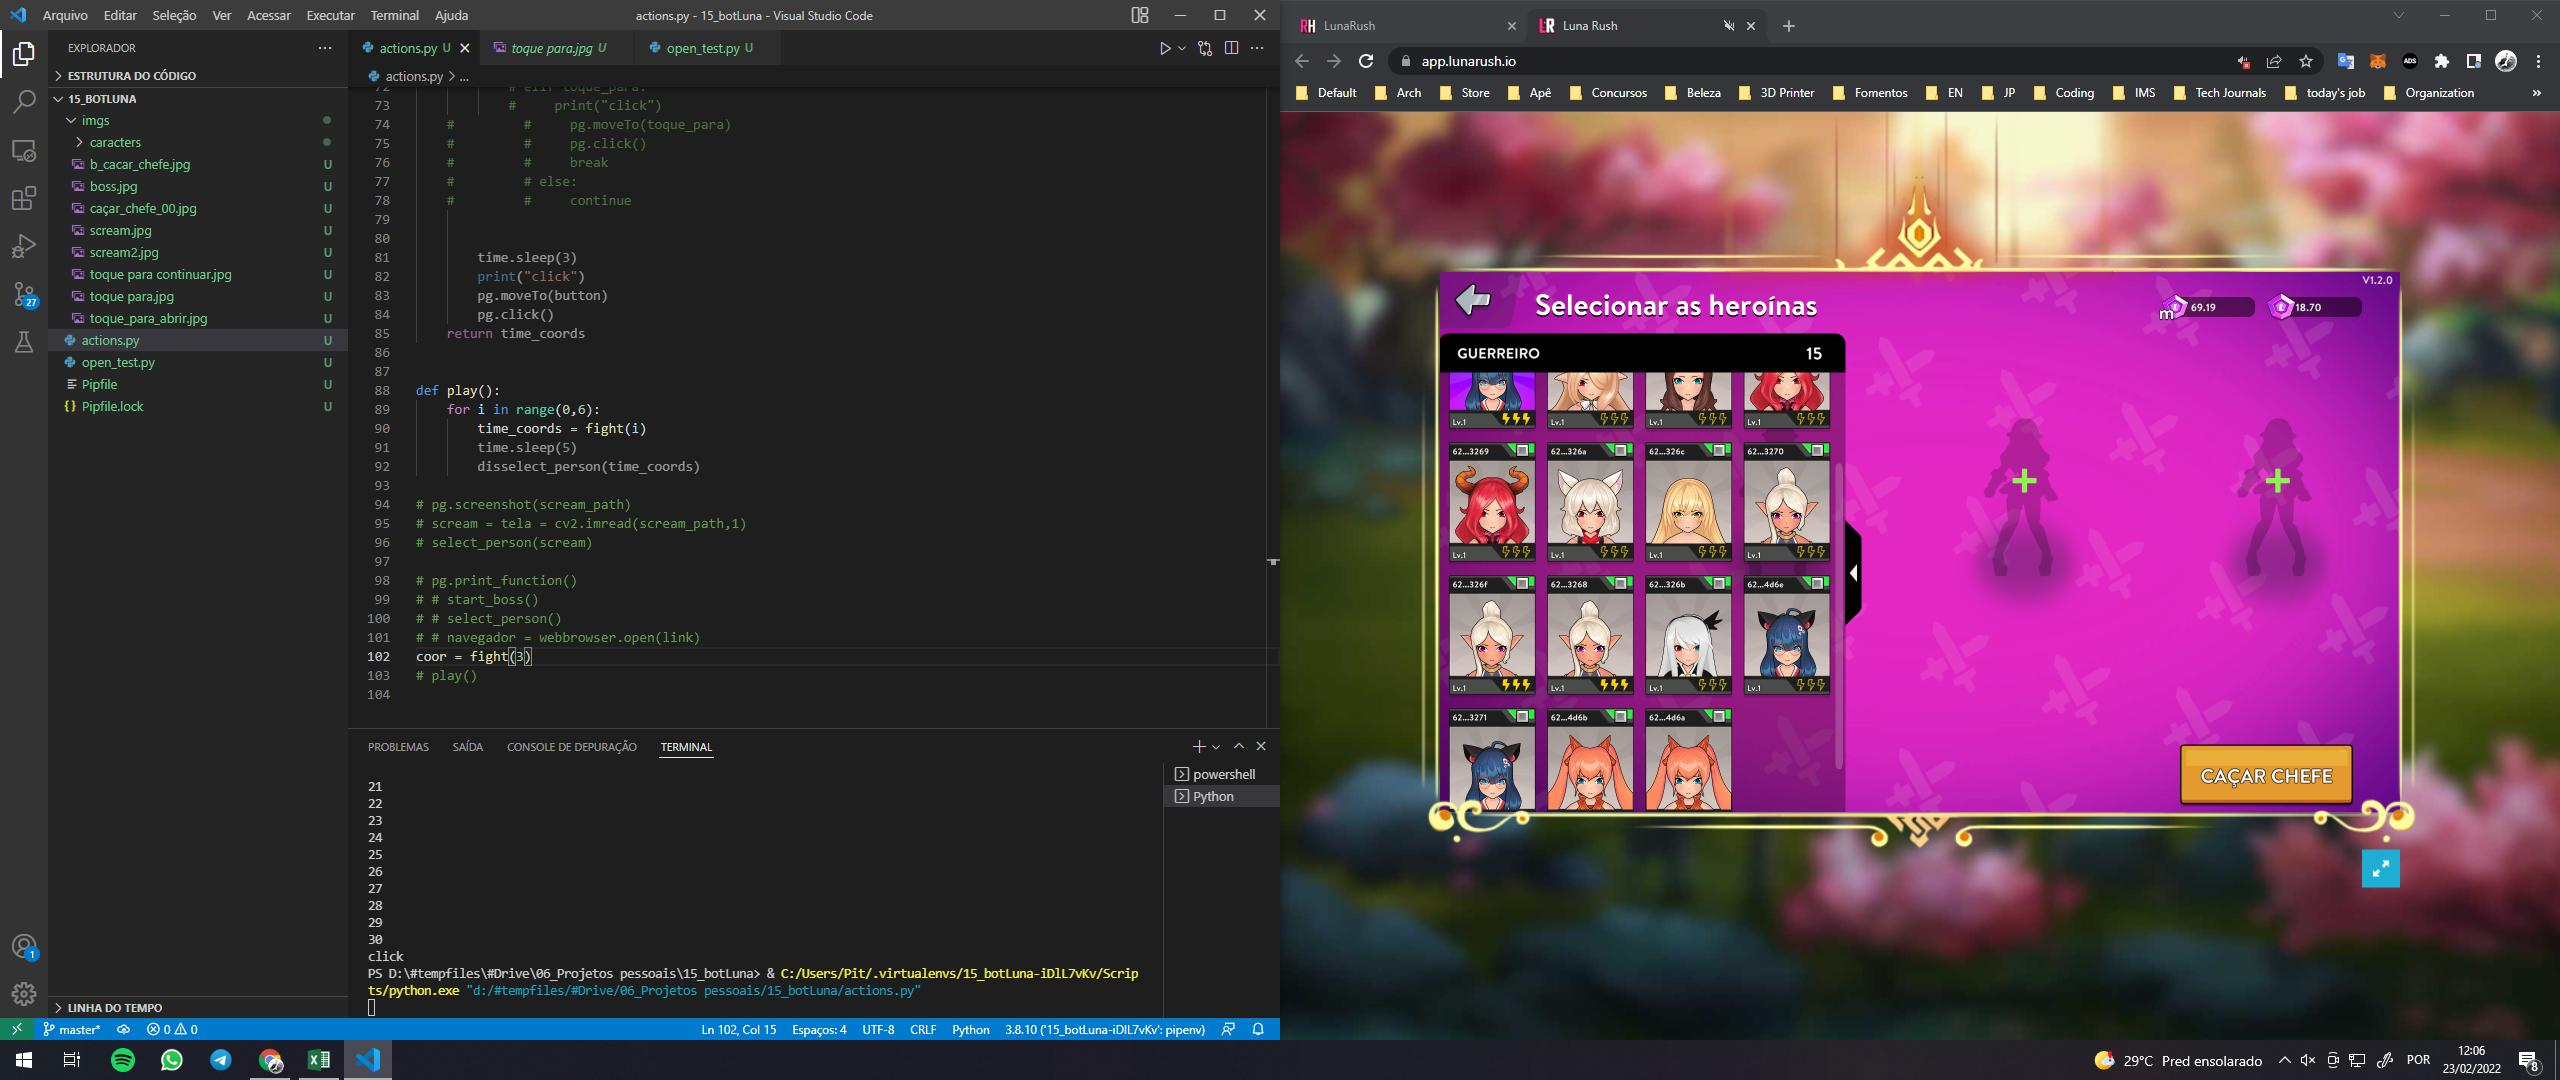
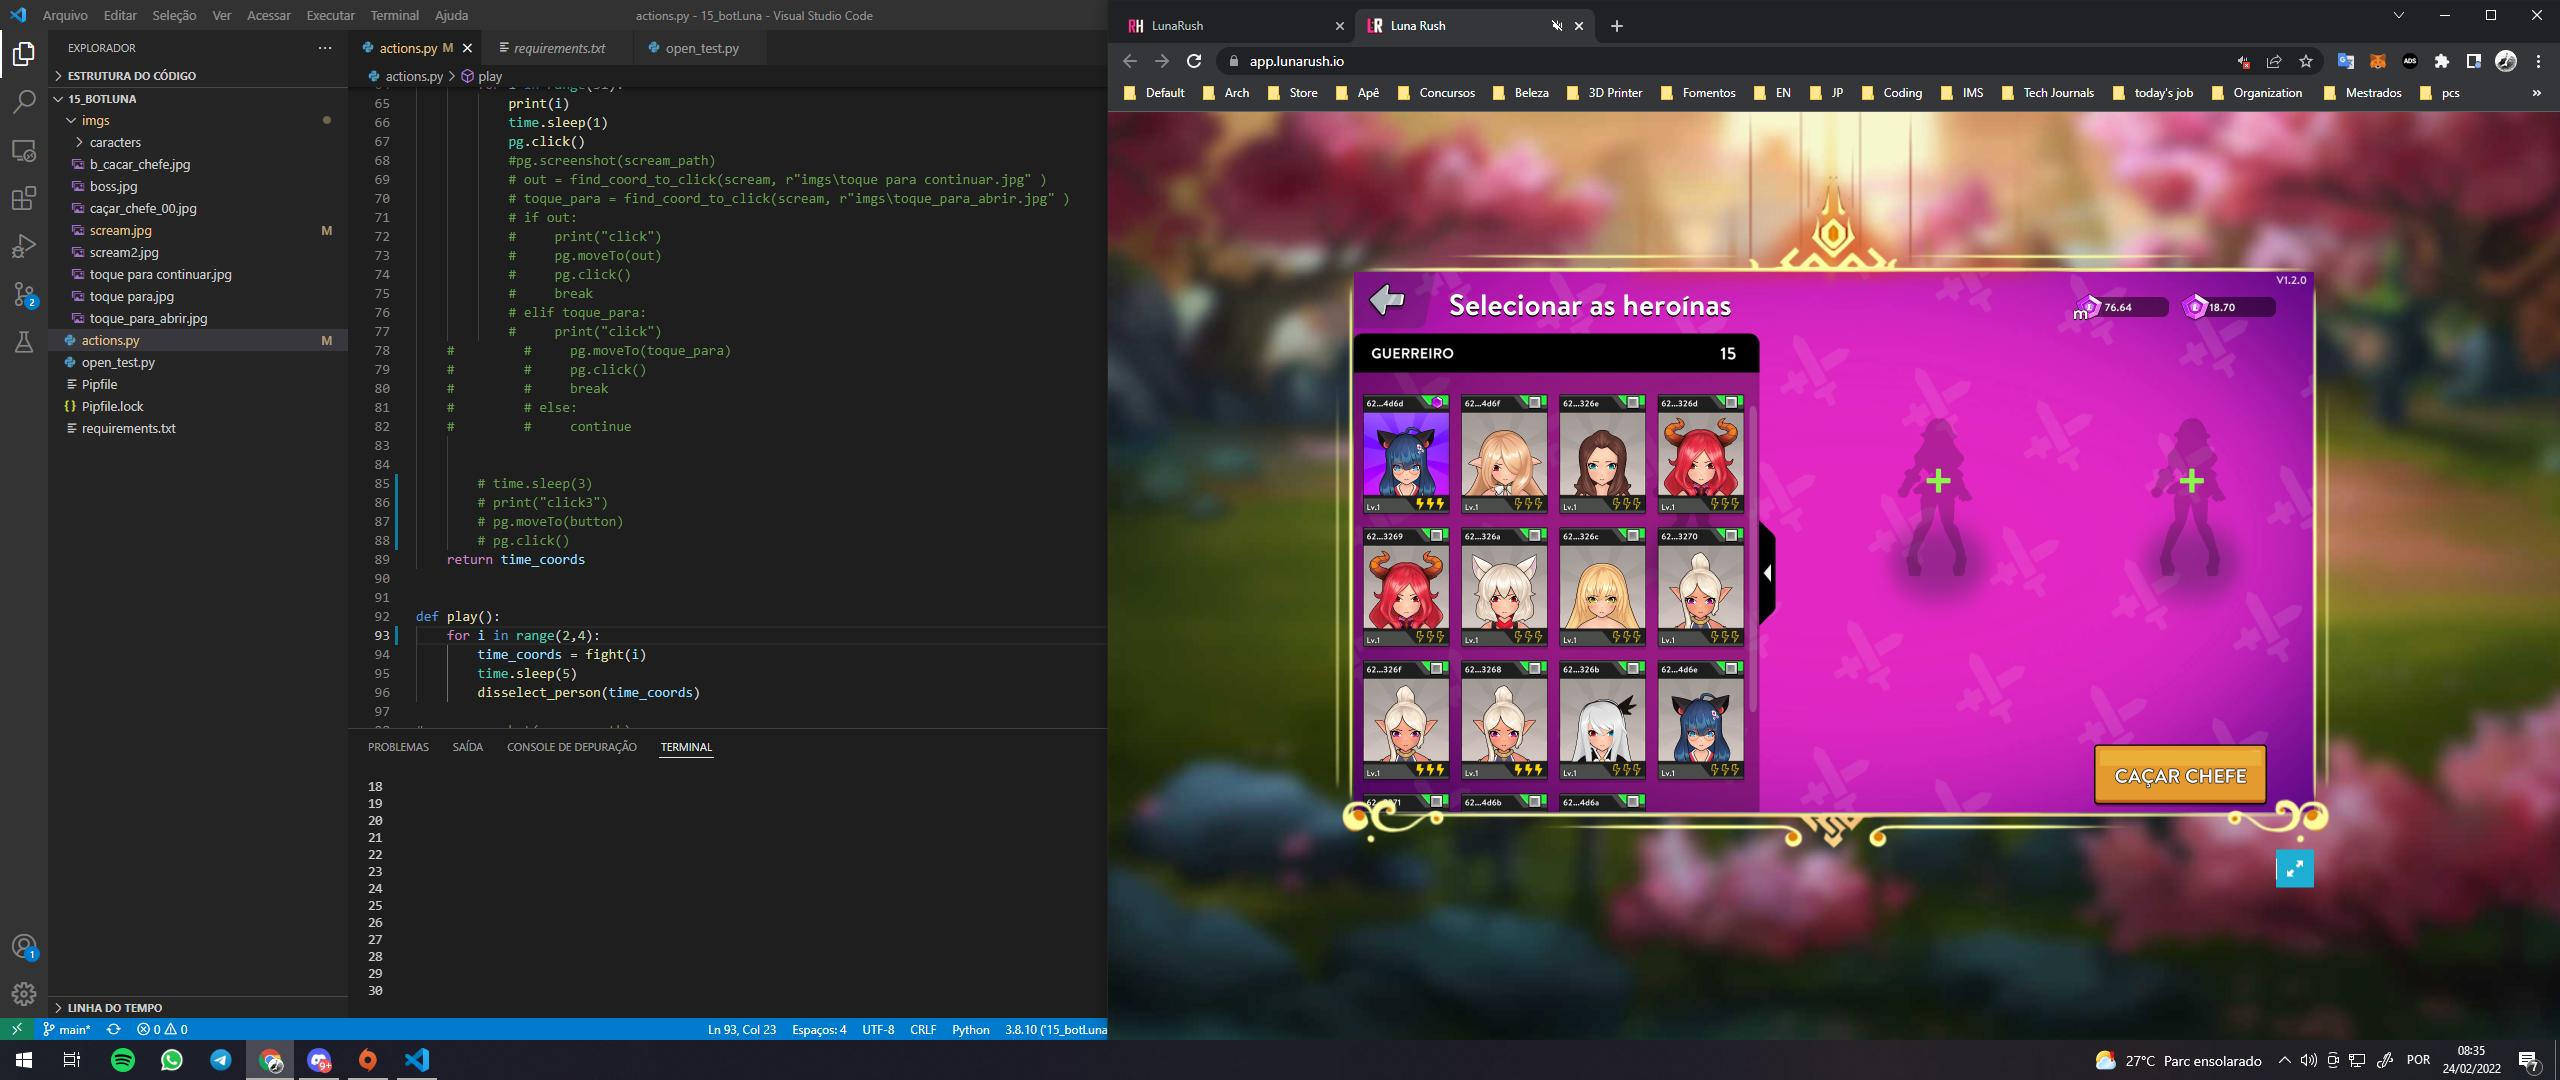
Fix extra click of _caçar_

diff --git a/actions.py b/actions.py
@@ -35,9 +35,9 @@ def select_person(scream,turn):
 
 def disselect_person(time_coords):
     for coord in time_coords:
-        pg.click(coord)
-        time.sleep(2)
-    return "ok"
+        pg.moveTo(coord)
+        pg.click()
+        time.sleep(2)    
 
 
 def fight(turn):
@@ -46,17 +46,21 @@ def fight(turn):
     time_coords = select_person(scream,turn)
     time.sleep(2)
     button = find_coord_to_click(scream, r"imgs\b_cacar_chefe.jpg" )
-    
-    for i in range(0,3):        
-        print("click")
+
+    #play 3 times
+    for i in range(0,3):
+        #caçar       
+        print("click1")
         pg.moveTo(button)
         pg.click()
         time.sleep(5)
-        print("click")
-        pg.moveTo(button[0]-350, button[1])
-        pg.click()        
-       
 
+        #move to midle
+        print("click2")
+        pg.moveTo(button[0]-350, button[1])
+        pg.click()       
+       
+        #clik in the midle
         for i in range(31):
             print(i)
             time.sleep(1)            
@@ -78,15 +82,15 @@ def fight(turn):
     #         #     continue
 
             
-        time.sleep(3)
-        print("click")
-        pg.moveTo(button)
-        pg.click()
+        # time.sleep(3)
+        # print("click3")
+        # pg.moveTo(button)
+        # pg.click()
     return time_coords
 
 
 def play():
-    for i in range(0,6):
+    for i in range(2,4):
         time_coords = fight(i)
         time.sleep(5)
         disselect_person(time_coords)
@@ -99,5 +103,5 @@ def play():
 # # start_boss()
 # # select_person()
 # # navegador = webbrowser.open(link)
-coor = fight(3)
+coor = play()
 # play()
